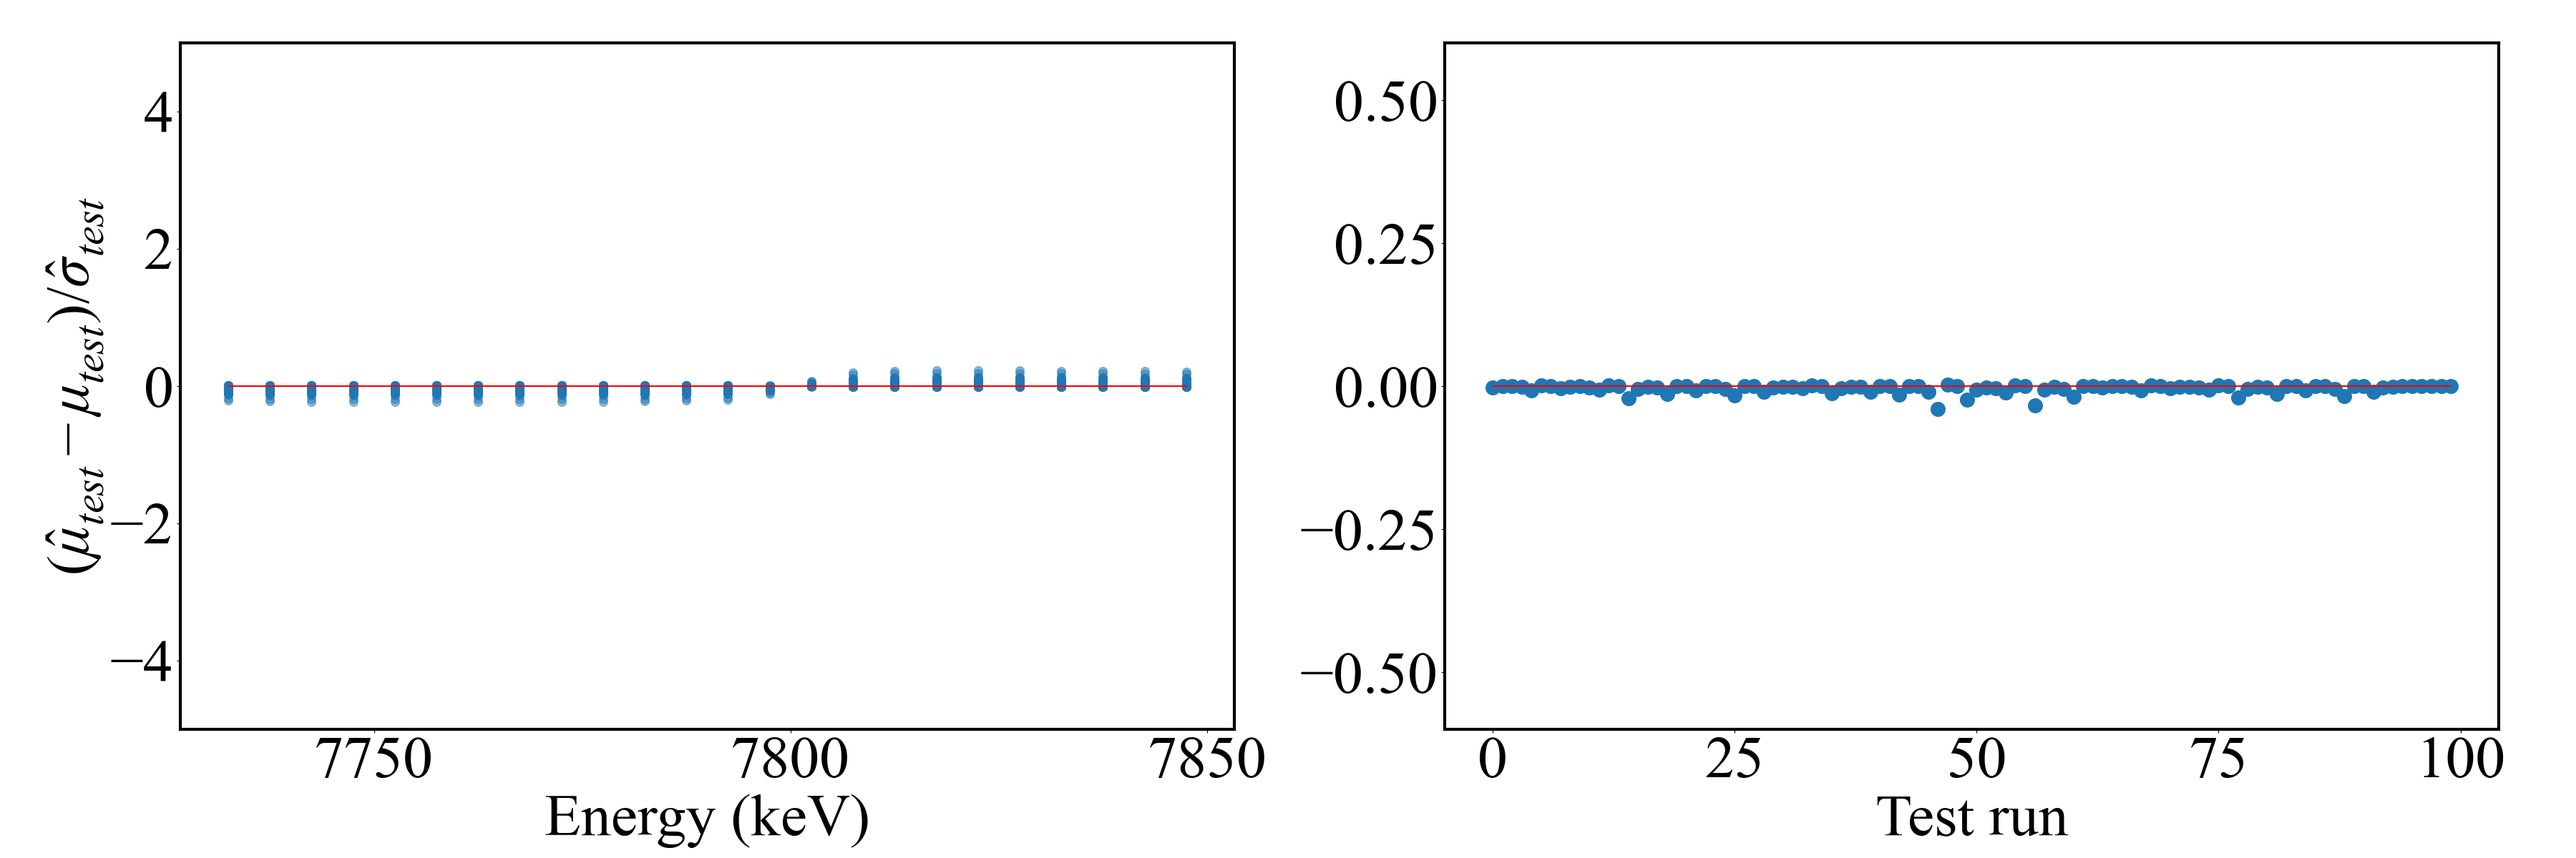
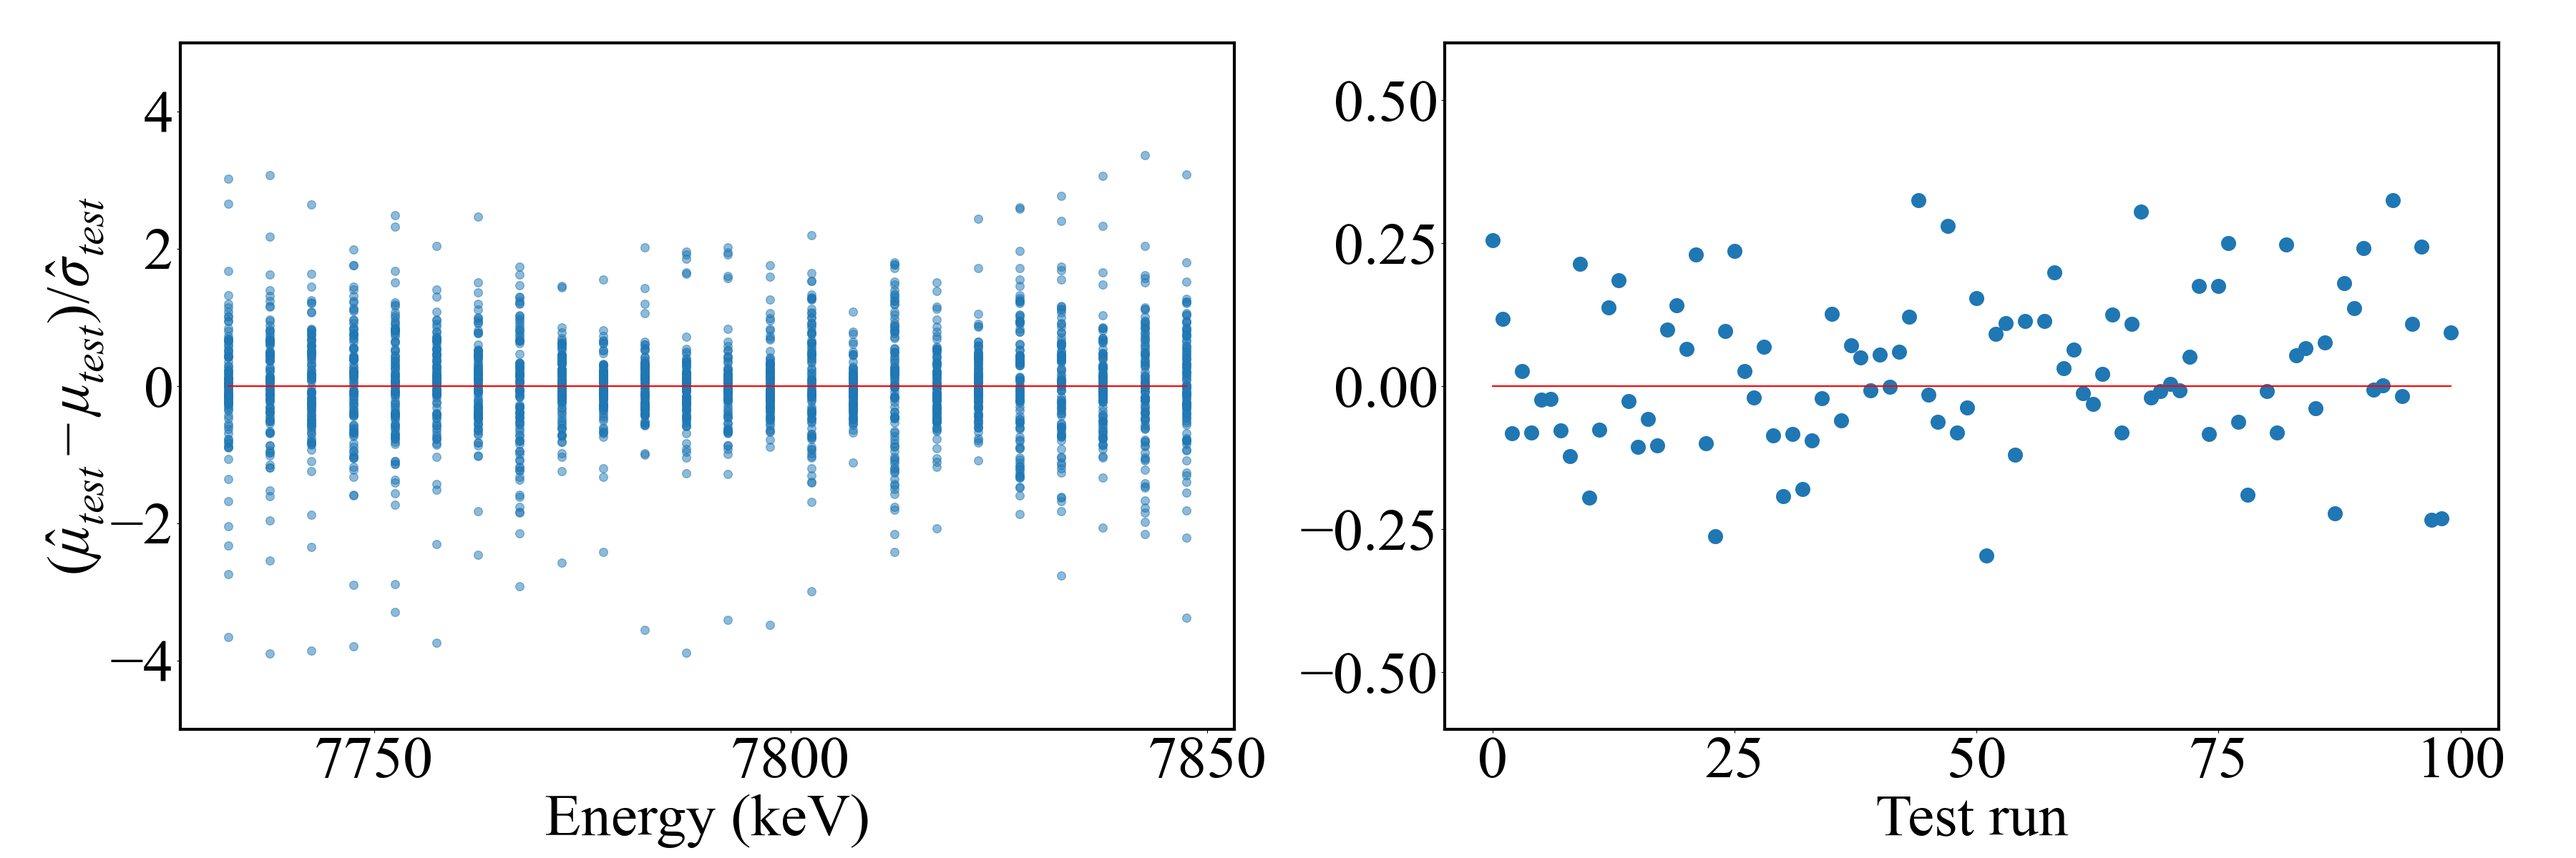
Test Prior

diff --git a/Bayesian_DSL/Bayesian_DSL.py b/Bayesian_DSL/Bayesian_DSL.py
@@ -44,7 +44,8 @@ data_y_varhigh_peakrange = data_peakrange[:, 3]
 
 model_parameter_values = np.loadtxt(dir_path + '\DSL_' + peak + dataset_Tau + '\DSL_' + peak + '_model_parameter_values.csv', delimiter=',')  # csv derived from Comparison_DSL2.C
 model_y_values_fitrange = np.loadtxt(dir_path + '\DSL_' + peak + dataset_Tau + '\DSL_' + peak + '_model_y_values.csv', delimiter=',')   # csv derived from Comparison_DSL2.C
-model_y_var_fitrange = np.loadtxt(dir_path + '\DSL_' + peak + dataset_Tau + '\DSL_' + peak + '_model_y_values_var_All0.csv', delimiter=',')   # csv derived from Comparison_DSL2.C
+model_y_var_fitrange = np.loadtxt(dir_path + '\DSL_' + peak + dataset_Tau + '\DSL_' + peak + '_model_y_values_var.csv', delimiter=',')   # csv derived from Comparison_DSL2.C
+# model_y_var_fitrange = np.loadtxt(dir_path + '\DSL_' + peak + dataset_Tau + '\DSL_' + peak + '_model_y_values_var_All0.csv', delimiter=',')   # csv derived from Comparison_DSL2.C
 
 model_y_values_peakrange = model_y_values_fitrange[:,bin_start:bin_stop] # Select model in the peak range by columns
 model_y_var_peakrange = model_y_var_fitrange[:,bin_start:bin_stop] # Select model in the peak range by columns
@@ -246,11 +247,11 @@ print("\n[Step 4: Model emulation.]")
 # C:\Users\sun\AppData\Local\Programs\Python\Python311\Lib\site-packages\surmise\emulationmethods\PCGP_numPCs.py # modify
 # PCGP_numPCs.py is a modified version of PCGP.py that allows the user to specify the number of principal components to be used in the emulator. The number of principal components is specified using the args dictionary with the key 'num_pcs'. If num_pcs is not specified, it falls back to epsilon = 0.1.
 
-# emulator_1 = emulator(x=data_x_values_peakrange,
-#                       theta=model_parameter_values_train,
-#                       f=model_y_values_peakrange_train.T,
-#                       method='PCGP_numPCs',
-#                       args={'num_pcs': 24})  # Specify the number of principal components
+emulator_1 = emulator(x=data_x_values_peakrange,
+                      theta=model_parameter_values_train,
+                      f=model_y_values_peakrange_train.T,
+                      method='PCGP_numPCs',
+                      args={'num_pcs': 24})  # Specify the number of principal components
 
 # emulator_1 = emulator(x=data_x_values_peakrange,
 #                       theta=model_parameter_values_train,
@@ -272,12 +273,12 @@ print("\n[Step 4: Model emulation.]")
 #                       f=model_y_values_peakrange_train.T,
 #                       method='indGP')
 
-emulator_1 = emulator(x=data_x_values_peakrange,
-                      theta=model_parameter_values_train,
-                      f=model_y_values_peakrange_train.T,
-                      method='PCSK',
-                      # args={'epsilonPC': 0.0000000001, 'simsd': model_y_var_peakrange_train.T, 'verbose': 1})
-                      args={'warnings': True, 'numpcs': 24, 'simsd': model_y_var_peakrange_train.T, 'verbose': 1})
+# emulator_1 = emulator(x=data_x_values_peakrange,
+#                       theta=model_parameter_values_train,
+#                       f=model_y_values_peakrange_train.T,
+#                       method='PCSK',
+#                       # args={'epsilonPC': 0.0000000001, 'simsd': model_y_var_peakrange_train.T, 'verbose': 1})
+#                       args={'warnings': True, 'numpcs': 24, 'simsd': model_y_var_peakrange_train.T, 'verbose': 1})
 
 # f can be from an analytic function too
 # model_y_values, m runs/rows, n bins/columns, need to be transposed in this case cuz each column in f should correspond to a row in x.
